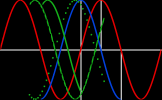
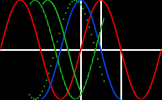
Default aa, tweak default thicknesses

Changed region(s): [[0.0, 0.0, 1.0, 1.0]]

diff --git a/graphics/graph_test.cpp b/graphics/graph_test.cpp
@@ -37,10 +37,16 @@ TEST_F(GraphTest, Frame) {
         {-1.0, 1.0},
         /*background=*/Opaque(xkcd::red),
         {.anti_aliasing = {.supersampling = supersampling}});
-    graph.PlotHorizontalLine(-1.0, xkcd::blue);
-    graph.PlotHorizontalLine(1.0, xkcd::blue);
-    graph.PlotVerticalLine(-2 * π * Radian, xkcd::blue);
-    graph.PlotVerticalLine(2 * π * Radian, xkcd::blue);
+    graph.PlotHorizontalLine(-1.0, xkcd::blue, {.thickness_in_pixels = 1.0});
+    graph.PlotHorizontalLine(1.0, xkcd::blue, {.thickness_in_pixels = 1.0});
+    graph.PlotVerticalLine(-2 * π * Radian,
+                           xkcd::blue,
+                           /*y_range=*/std::nullopt,
+                           {.thickness_in_pixels = 1.0});
+    graph.PlotVerticalLine(2 * π * Radian,
+                           xkcd::blue,
+                           /*y_range=*/std::nullopt,
+                           {.thickness_in_pixels = 1.0});
     graph.AntiAlias();
     EXPECT_GOLDEN_GRAPH(graph, "frame");
   }
@@ -51,7 +57,8 @@ TEST_F(GraphTest, Sinusoid) {
                              100,
                              {-2 * π * Radian, 2 * π * Radian},
                              {-1.0, 1.0},
-                             /*background=*/Opaque(xkcd::black));
+                             /*background=*/Opaque(xkcd::black),
+                             {.anti_aliasing={.supersampling = 1}});
   Graph<Angle, double> anti_aliased_graph(std::round(100 * φ),
                              100,
                              {-2 * π * Radian, 2 * π * Radian},

diff --git a/graphics/graph.hpp b/graphics/graph.hpp
@@ -62,7 +62,7 @@ class Graph {
  public:
   struct Options {
     struct AntiAliasing {
-      std::int64_t supersampling = 1;
+      std::int64_t supersampling = 4;
     };
     AntiAliasing anti_aliasing;
   };
@@ -102,12 +102,18 @@ class Graph {
             Interval<Abscissa> const& range,
             RGB24 colour,
             PlotOptions options = {});
+  // The axis-aligned lines default to a thickness of 1.75, not 1, so as not to
+  // turn from a crisp one-pixel line when they line up with a pixel to a
+  // two-pixel blurry mess when they lie exactly between two pixels (which
+  // happens often for axes in graphs whose size is even).
   void PlotVerticalLine(
       Abscissa x,
       RGB24 colour,
       std::optional<Interval<Ordinate>> y_range = std::nullopt,
-      PlotOptions options = {});
-  void PlotHorizontalLine(Ordinate y, RGB24 colour, PlotOptions options = {});
+      PlotOptions options = {.thickness_in_pixels = 1.75});
+  void PlotHorizontalLine(Ordinate y,
+                          RGB24 colour,
+                          PlotOptions options = {.thickness_in_pixels = 1.75});
 
   // The string is passed by value and moved into this object.
   template<graph_point<Abscissa, Ordinate> Point>
